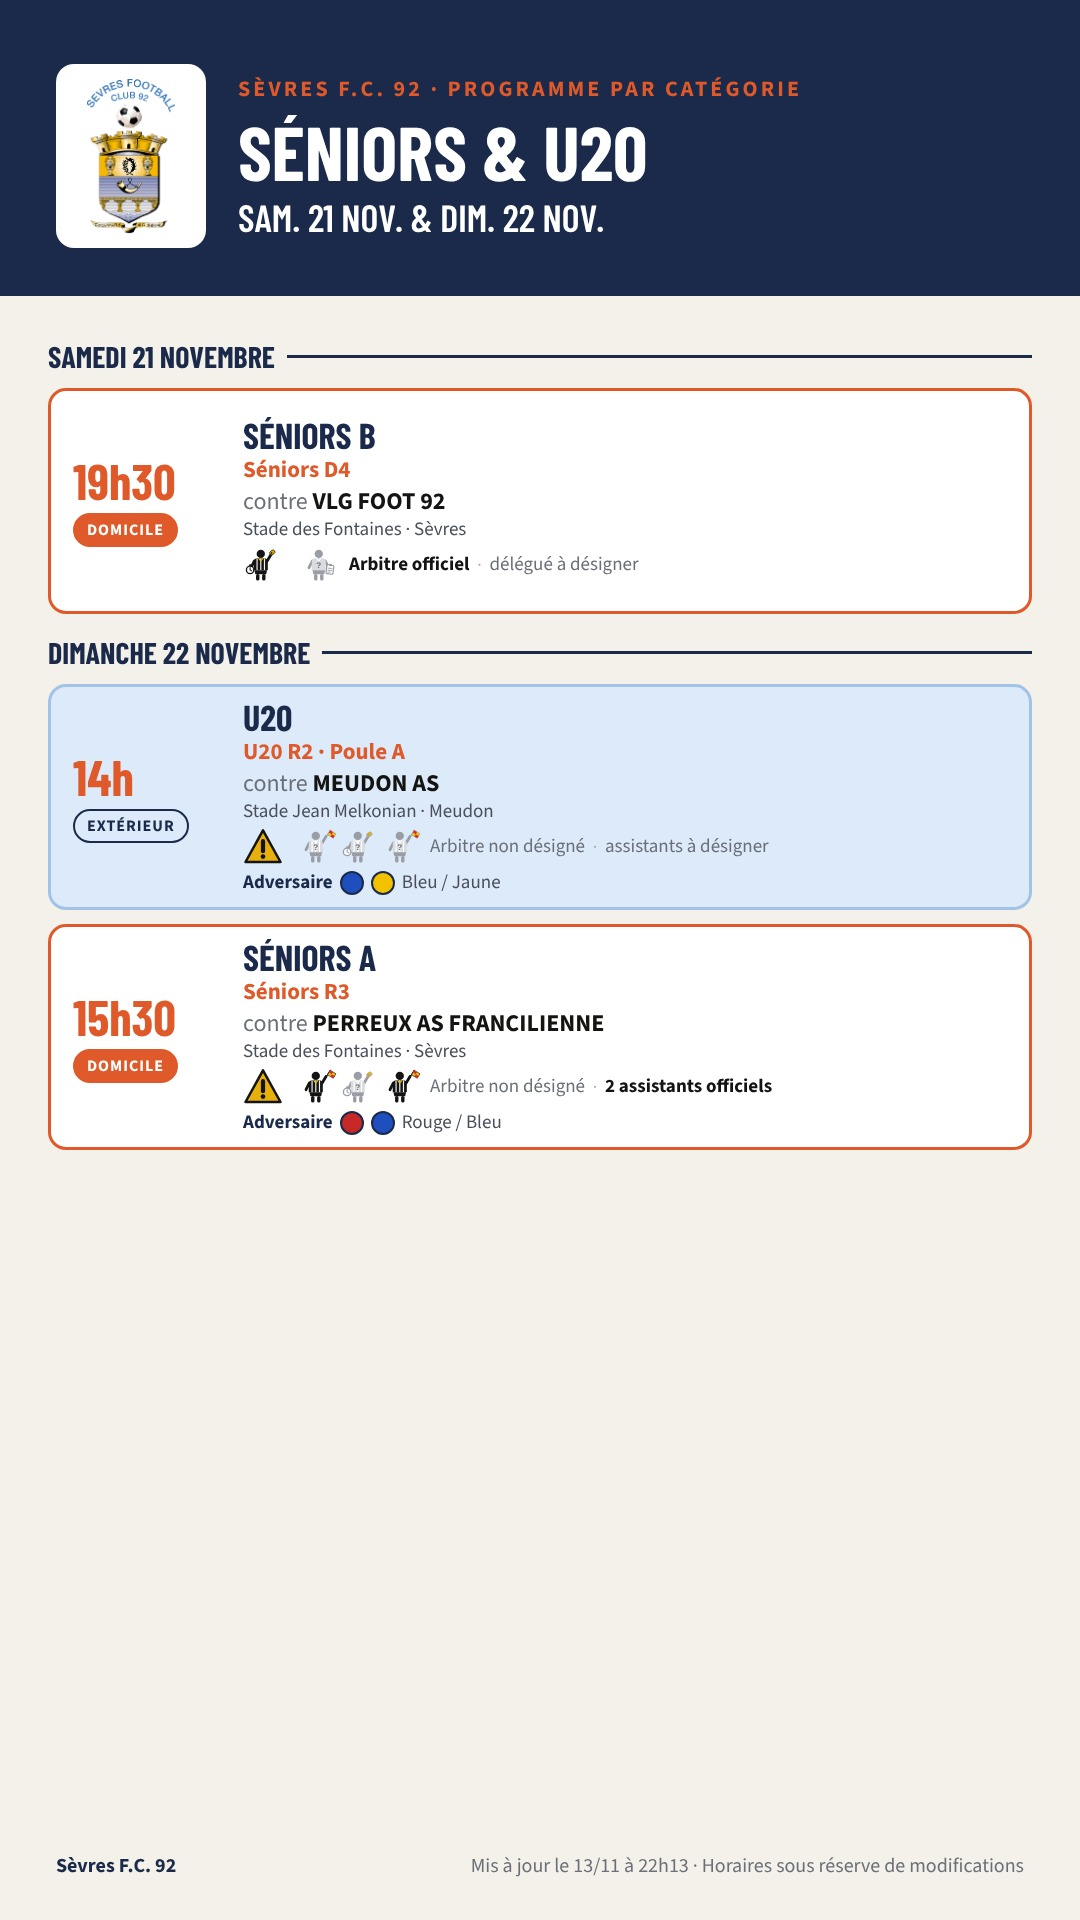
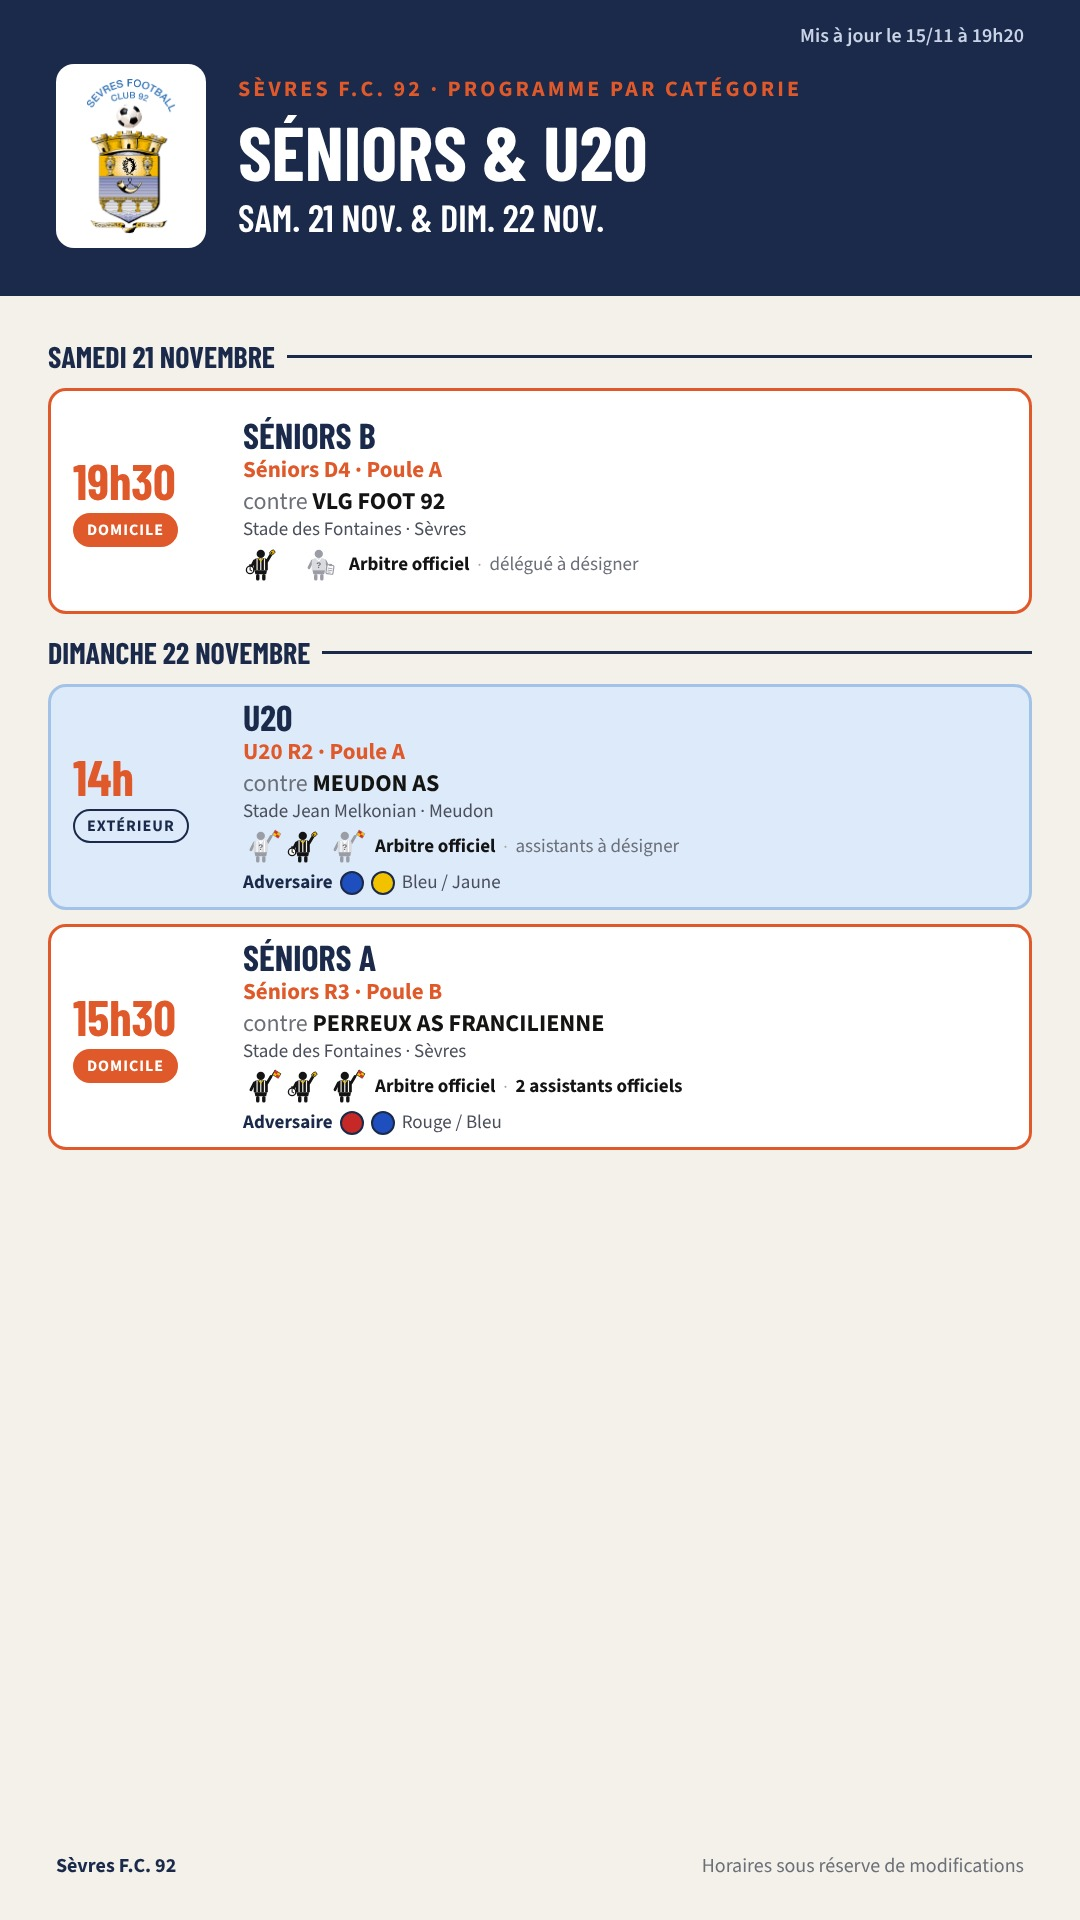
Affiches 21-23 nov. : relevé Footclubs/SportEasy du 15/11, poules, date de mise à jour en haut
Claude-Session: https://claude.ai/code/session_01Ce6bnAAqFwh5XpUpKRCk2S

diff --git a/index.html b/index.html
@@ -61,7 +61,7 @@ footer .wrap{padding-block:16px 28px}
 <header><div class="wrap">
   <div class="brand">
     <img src="logo.png" alt="Logo Sèvres F.C. 92">
-    <div><h1>Le week-end <em>du Sèvres F.C. 92</em></h1><span class="maj"><!--MAJ-->Mis à jour le 14/11 à 18h48<!--/MAJ--></span><p>Tous les matchs du club, à domicile et à l'extérieur</p></div>
+    <div><h1>Le week-end <em>du Sèvres F.C. 92</em></h1><span class="maj"><!--MAJ-->Mis à jour le 15/11 à 19h22<!--/MAJ--></span><p>Tous les matchs du club, à domicile et à l'extérieur</p></div>
   </div>
   <div class="weeks" id="weeks" role="group" aria-label="Choisir le week-end"></div>
 </div></header>
